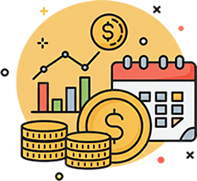
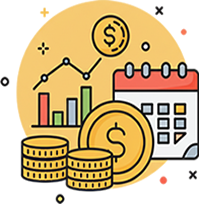
files updates
Adição da Lista de compras e outros ajustes

diff --git a/imagens/script_myFamily.js b/imagens/script_myFamily.js
@@ -18,6 +18,12 @@ function criarObjetosJSON(conteudo) {
 
     return array;
 }
+function listaComprasOpen() {
+    const menuDiv = document.getElementById('menu');
+    const ListaComprasDiv = document.getElementById('divListaCompras');
+    menuDiv.style.display = 'none';
+    ListaComprasDiv.style.display = 'block';  
+}
 
 function lerArquivo(nomeDigitado, senhaDigitada) {
     const arquivoInput = document.getElementById('arquivoInput');
@@ -61,3 +67,83 @@ function autenticar() {
     const senha = document.getElementById('idSenha').value;
     lerArquivo(nome, senha); // Passa nome e senha para lerArquivo
 }
+let produto = document.getElementById("produto")
+        let quantidade = document.getElementById("quantidade")
+        let preco = document.getElementById("preco")
+        let lista = document.getElementById("lista")
+        let total = document.getElementById("total")
+        let produtos = []
+        let quantidades = []
+        let precos = []
+        let contador = 1
+
+        function somarItemCompras(){
+            let soma = 0
+            for (let i = 0; i < precos.length; i++) {
+                soma += quantidades[i]*precos[i]
+            }
+            return soma
+        }
+
+        function editarItemCompras(id) {
+           let resposta = window.prompt('Você quer CORRIGIR ou APAGAR?', 'APAGAR')
+           let itemEdit = document.getElementById(`item${id}`)
+           let btnItem = document.getElementById(id)
+           if (resposta == 'CORRIGIR' || resposta == 'corrigir') {
+                resposta = window.prompt('Corrigir QUANTIDADE ou PREÇO?', 'PREÇO')
+                if (resposta == 'QUANTIDADE' || resposta == 'quantidade'){
+                    resposta = Number(window.prompt('Digite a quantidade desejada:', '1'))
+                    quantidades[id-1] = resposta
+                    itemEdit.textContent = `${resposta} ${produtos[id-1]} a R$ ${precos[id-1]} cada.`
+                    let valorTotal = somarItemCompras()
+                    total.innerText = `O total é R$ ${valorTotal}`
+                }
+                else {
+                    if (resposta == 'PREÇO' || resposta == 'preço') {
+                        resposta = Number(window.prompt('Digite o preço atualizado:', '1,0'))
+                        precos[id-1] = resposta
+                        itemEdit.textContent = `${quantidades[id-1]} ${produtos[id-1]} a R$ ${resposta} cada.`
+                        let valorTotal = somarItemCompras()
+                        total.innerText = `O total é R$ ${valorTotal}`    
+                    }
+                }
+           }
+           else {
+            if (resposta == 'APAGAR' || resposta == 'apagar') {
+                quantidades[id-1] = 0
+                document.querySelector("#lista ol").removeChild(itemEdit)
+                document.querySelector("#lista ol").removeChild(btnItem)
+                let valorTotal = somarItemCompras()
+                total.innerText = `O total é R$ ${valorTotal}`   
+            }
+           }
+        }
+
+        function addItemCompras(){
+            if (produto.value != '' && quantidade.value >= 1 && preco.value > 0){
+                produtos.push(produto.value)
+                quantidades.push(Number(quantidade.value))
+                precos.push(Number(preco.value))
+                const item = document.createElement('li')
+                item.textContent = `${quantidade.value} ${produto.value} a R$ ${preco.value} cada.`
+                item.id = `item${contador}`
+                const btnEdit = document.createElement('button')
+                btnEdit.textContent = `🔄`
+                btnEdit.id = `${contador}`
+                btnEdit.onclick = function() {
+                    editarItemCompras(btnEdit.id);
+                };
+                document.querySelector("#lista ol").appendChild(item)
+                document.querySelector("#lista ol").appendChild(btnEdit)
+                let valorTotal = somarItemCompras()
+                total.innerText = `O total é R$ ${valorTotal}`
+                produto.value = ''
+                quantidade.value = ''
+                preco.value = ''
+                produto.focus
+                contador ++
+            }
+            else {
+                alert("[ERRO] informe os dados do item.")
+            }
+        }

diff --git a/imagens/MyFamily.html b/imagens/MyFamily.html
@@ -9,6 +9,7 @@
 <body>
     <main>
         <img id="logo" src="logo_myFamily.png" alt="Logo de My Family">
+        <h1 style="font-weight: bold; font-size: 18px;">CARING MY FAMILY</h1>
         <div id="login">
            <form>
                 <p><input type="text" name="Nome" id="idNome" class="inputLogin" placeholder="Digite seu nome..." required></p>
@@ -17,14 +18,39 @@
            </form>
         </div>
         <div id="menu">
-            <a href="">
+            <button id="btnOrcamento" onclick="orcamentoOpen()">
                 <img src="Budget.png" alt="Opção1: Orçamento" class="menuOpcao">
-            </a>
-            <a href="">
+            </button>
+            <button id="btnListaCompras" onclick="listaComprasOpen()">
                 <img src="ShoppingList.png" alt="Opção2: Lista de Compras" class="menuOpcao">
-            </a>
+            </button>
+        </div>
+        <div id="divListaCompras">
+            <header>
+                <h1 style="font-weight: bold; font-size: 15px;">LISTA DE COMPRAS</h1>
+            </header>
+            <section>
+                <div id="entradas">
+                    <label for="produto">PRODUTO</label>
+                    <input type="text" name="produto" id="produto"><br>
+                    <label for="quantidade">QUANTIDADE</label>
+                    <input type="number" name="quantidade" id="quantidade"><br>
+                    <label for="preco">PREÇO</label>
+                    <input type="number" name="preco" id="preco">
+                    <button style="margin-top: 5px;" onclick="addItemCompras()">Adicionar</button>
+                </div>
+                <div id="lista">
+                    <ol>
+
+                    </ol>
+                </div>
+                <div id="total"></div>    
+            </section>
         </div>
     </main>
     <script src="script_myFamily.js"></script>    
 </body>
+<footer>
+    <p>&#169 All Rigths Reserved by ALIS Solutions & Technology</p>
+</footer>
 </html>

diff --git a/imagens/style_myFamily.css b/imagens/style_myFamily.css
@@ -10,7 +10,6 @@ main {
     margin: 5%;
     border-radius: 5px;
     box-shadow: 5px;
-
 }
 #logo {
     padding: 5px;
@@ -34,6 +33,9 @@ main {
     border-radius: 10px;
     margin-left: 2px;
 }
+input.inputlogin {
+    max-width: 120px;
+}
 #menu {
     display: none;
     margin-top: 10px;
@@ -47,9 +49,52 @@ main {
     max-width: 512px;
     background-color: rgb(251, 233, 236);
     padding: 5px;
+    box-shadow: 5px;
 }
 .menuOpcao {
     margin: 5px;
-    max-width: 40%;
+    max-width: 100px;
     height: auto;
 }
+#btnOrcamento {
+    background-color: blueviolet;
+    border-radius: 10px;
+}
+#btnListaCompras {
+    background-color: blueviolet;
+    border-radius: 10px;
+}
+button{
+    cursor: pointer;
+}
+div#divListaCompras {
+    display: none;
+}
+div#entradas {
+    display: grid;
+    width: 60%;
+    padding: 5px;
+    margin: auto;
+    background-color: rgb(251, 233, 236);
+    border-radius: 5px;
+}
+div#total {
+            text-align: center;
+            border-color: blueviolet;
+            border: 2px;
+            margin: auto;
+            font-style: bold;
+            background-color: pink;
+            border-radius: 5px;
+            padding: 5px;
+            width: 60%;
+        }
+
+        div#lista {
+            background-color: rgb(251, 233, 236);
+            border-radius: 5px;
+            padding: 5px;
+            margin: auto;
+            width: 60%;
+            text-align: left; 
+        }
